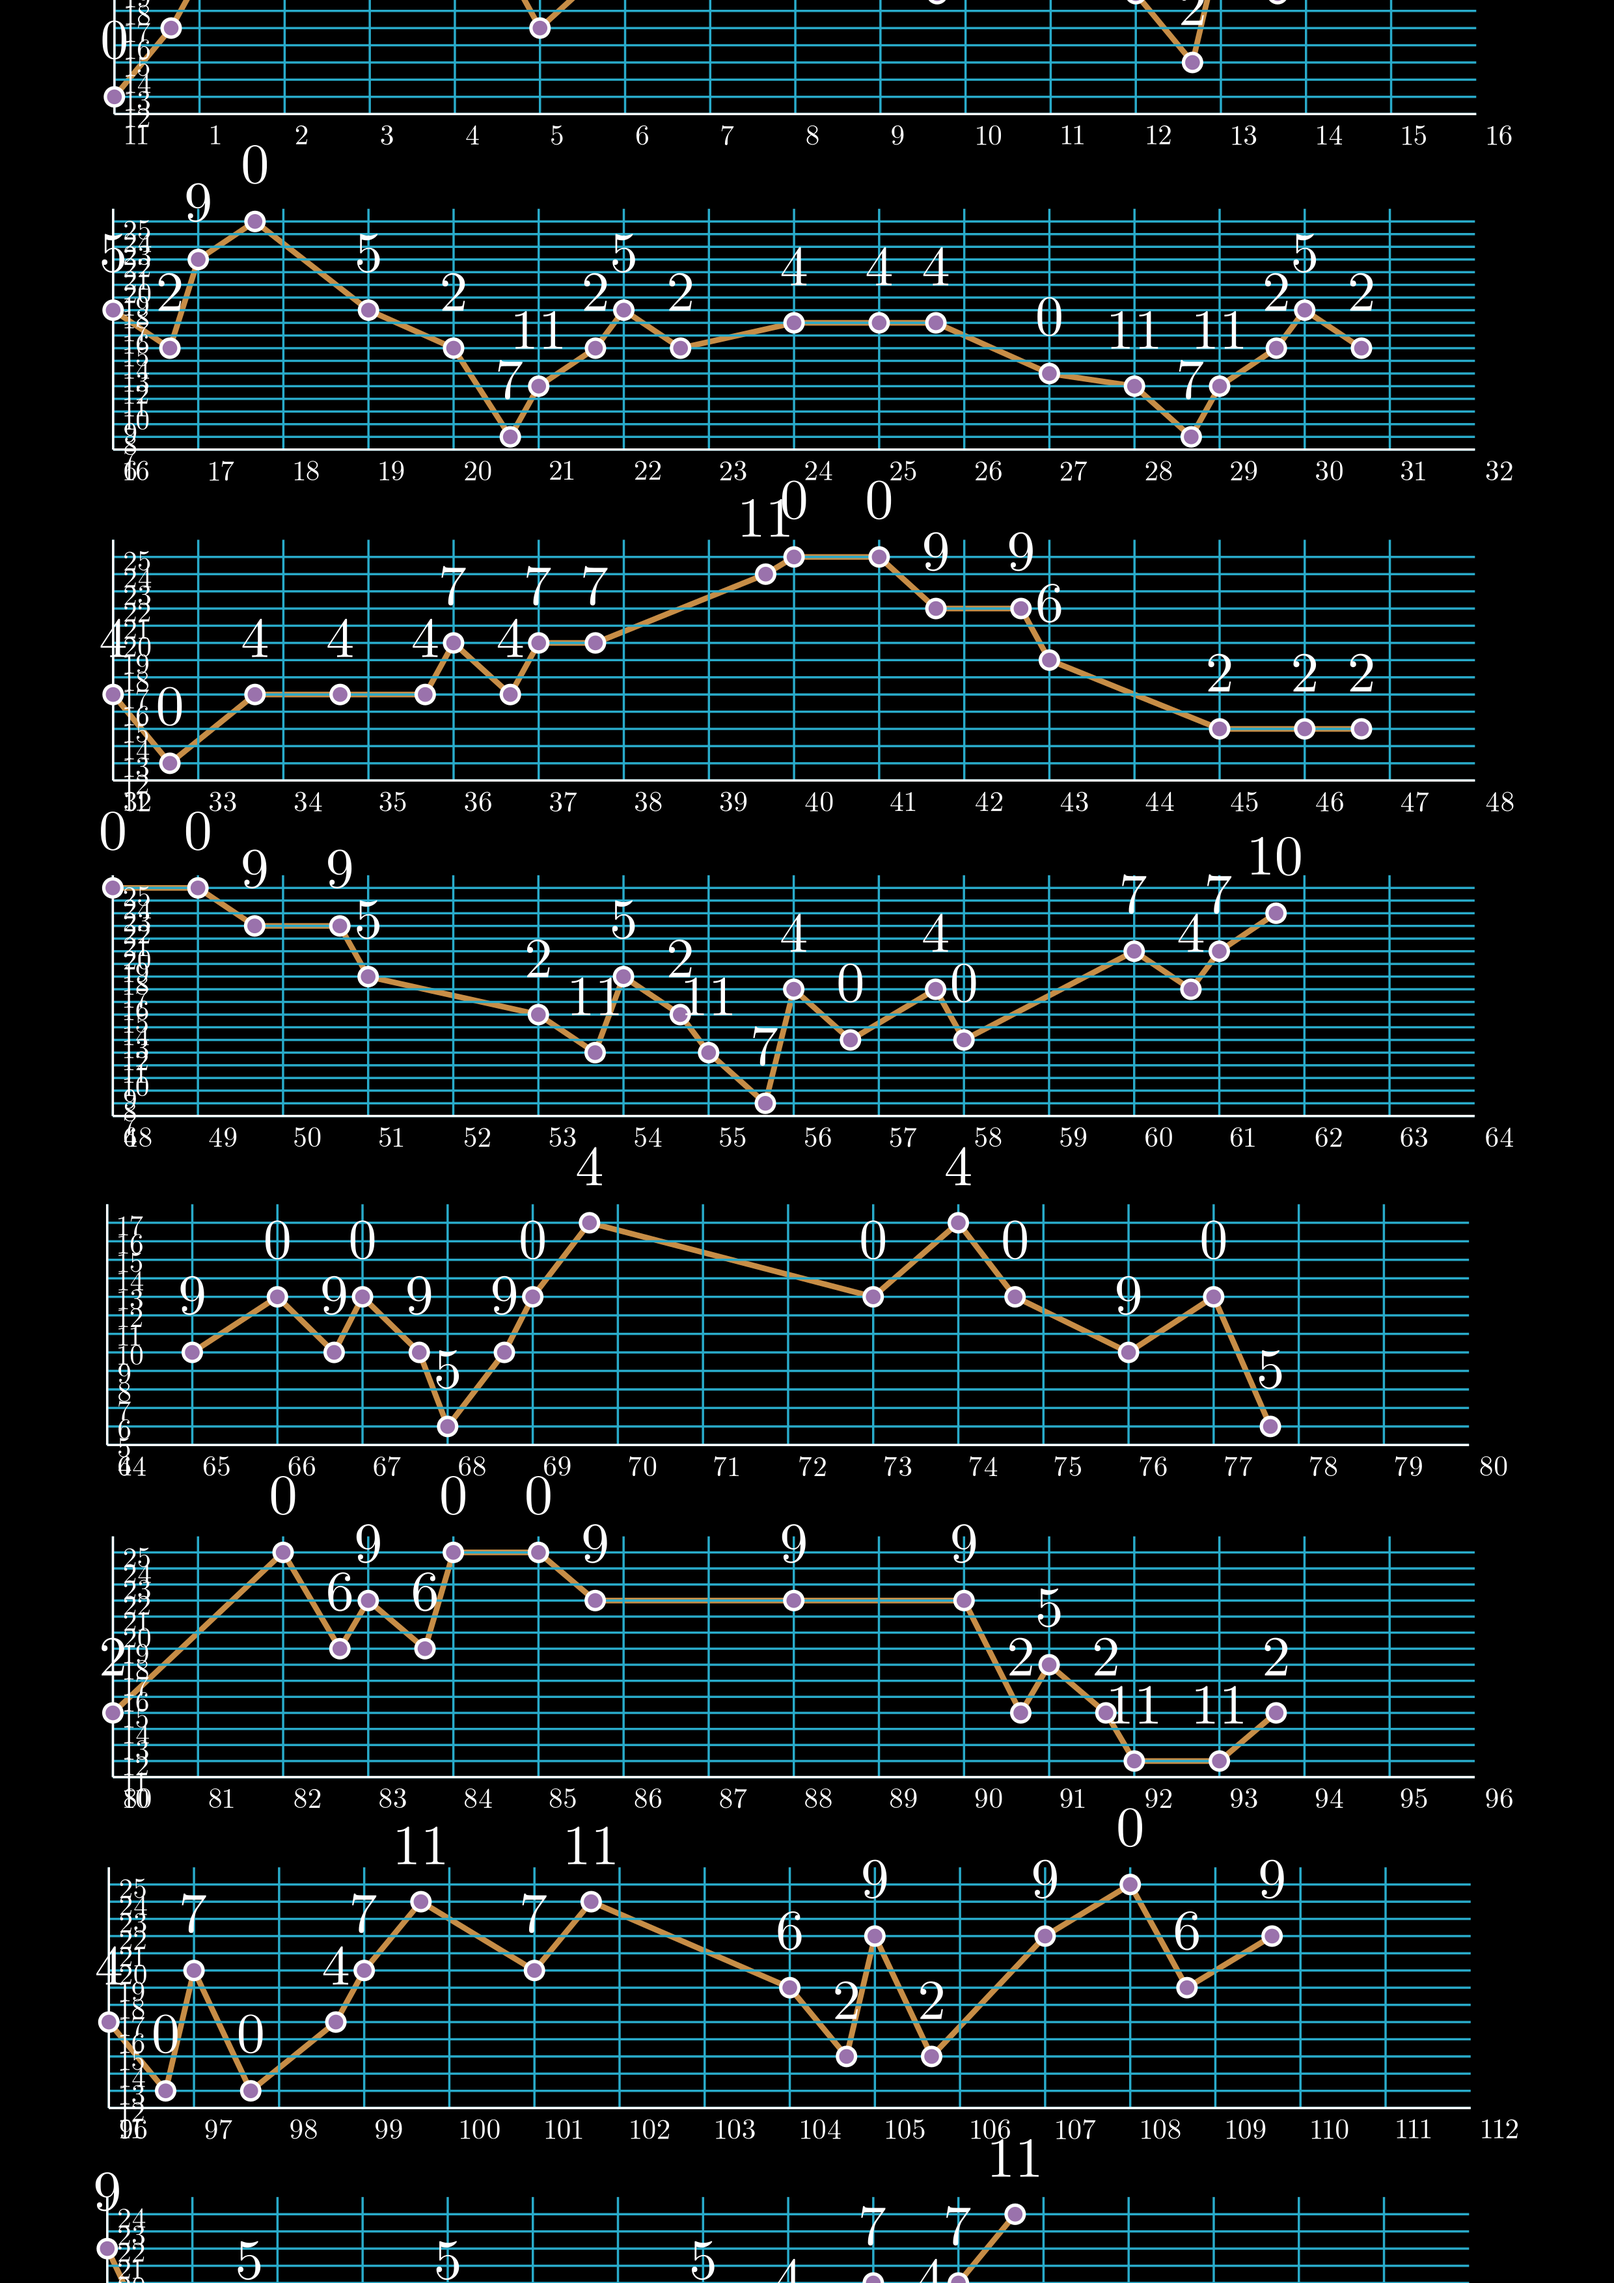
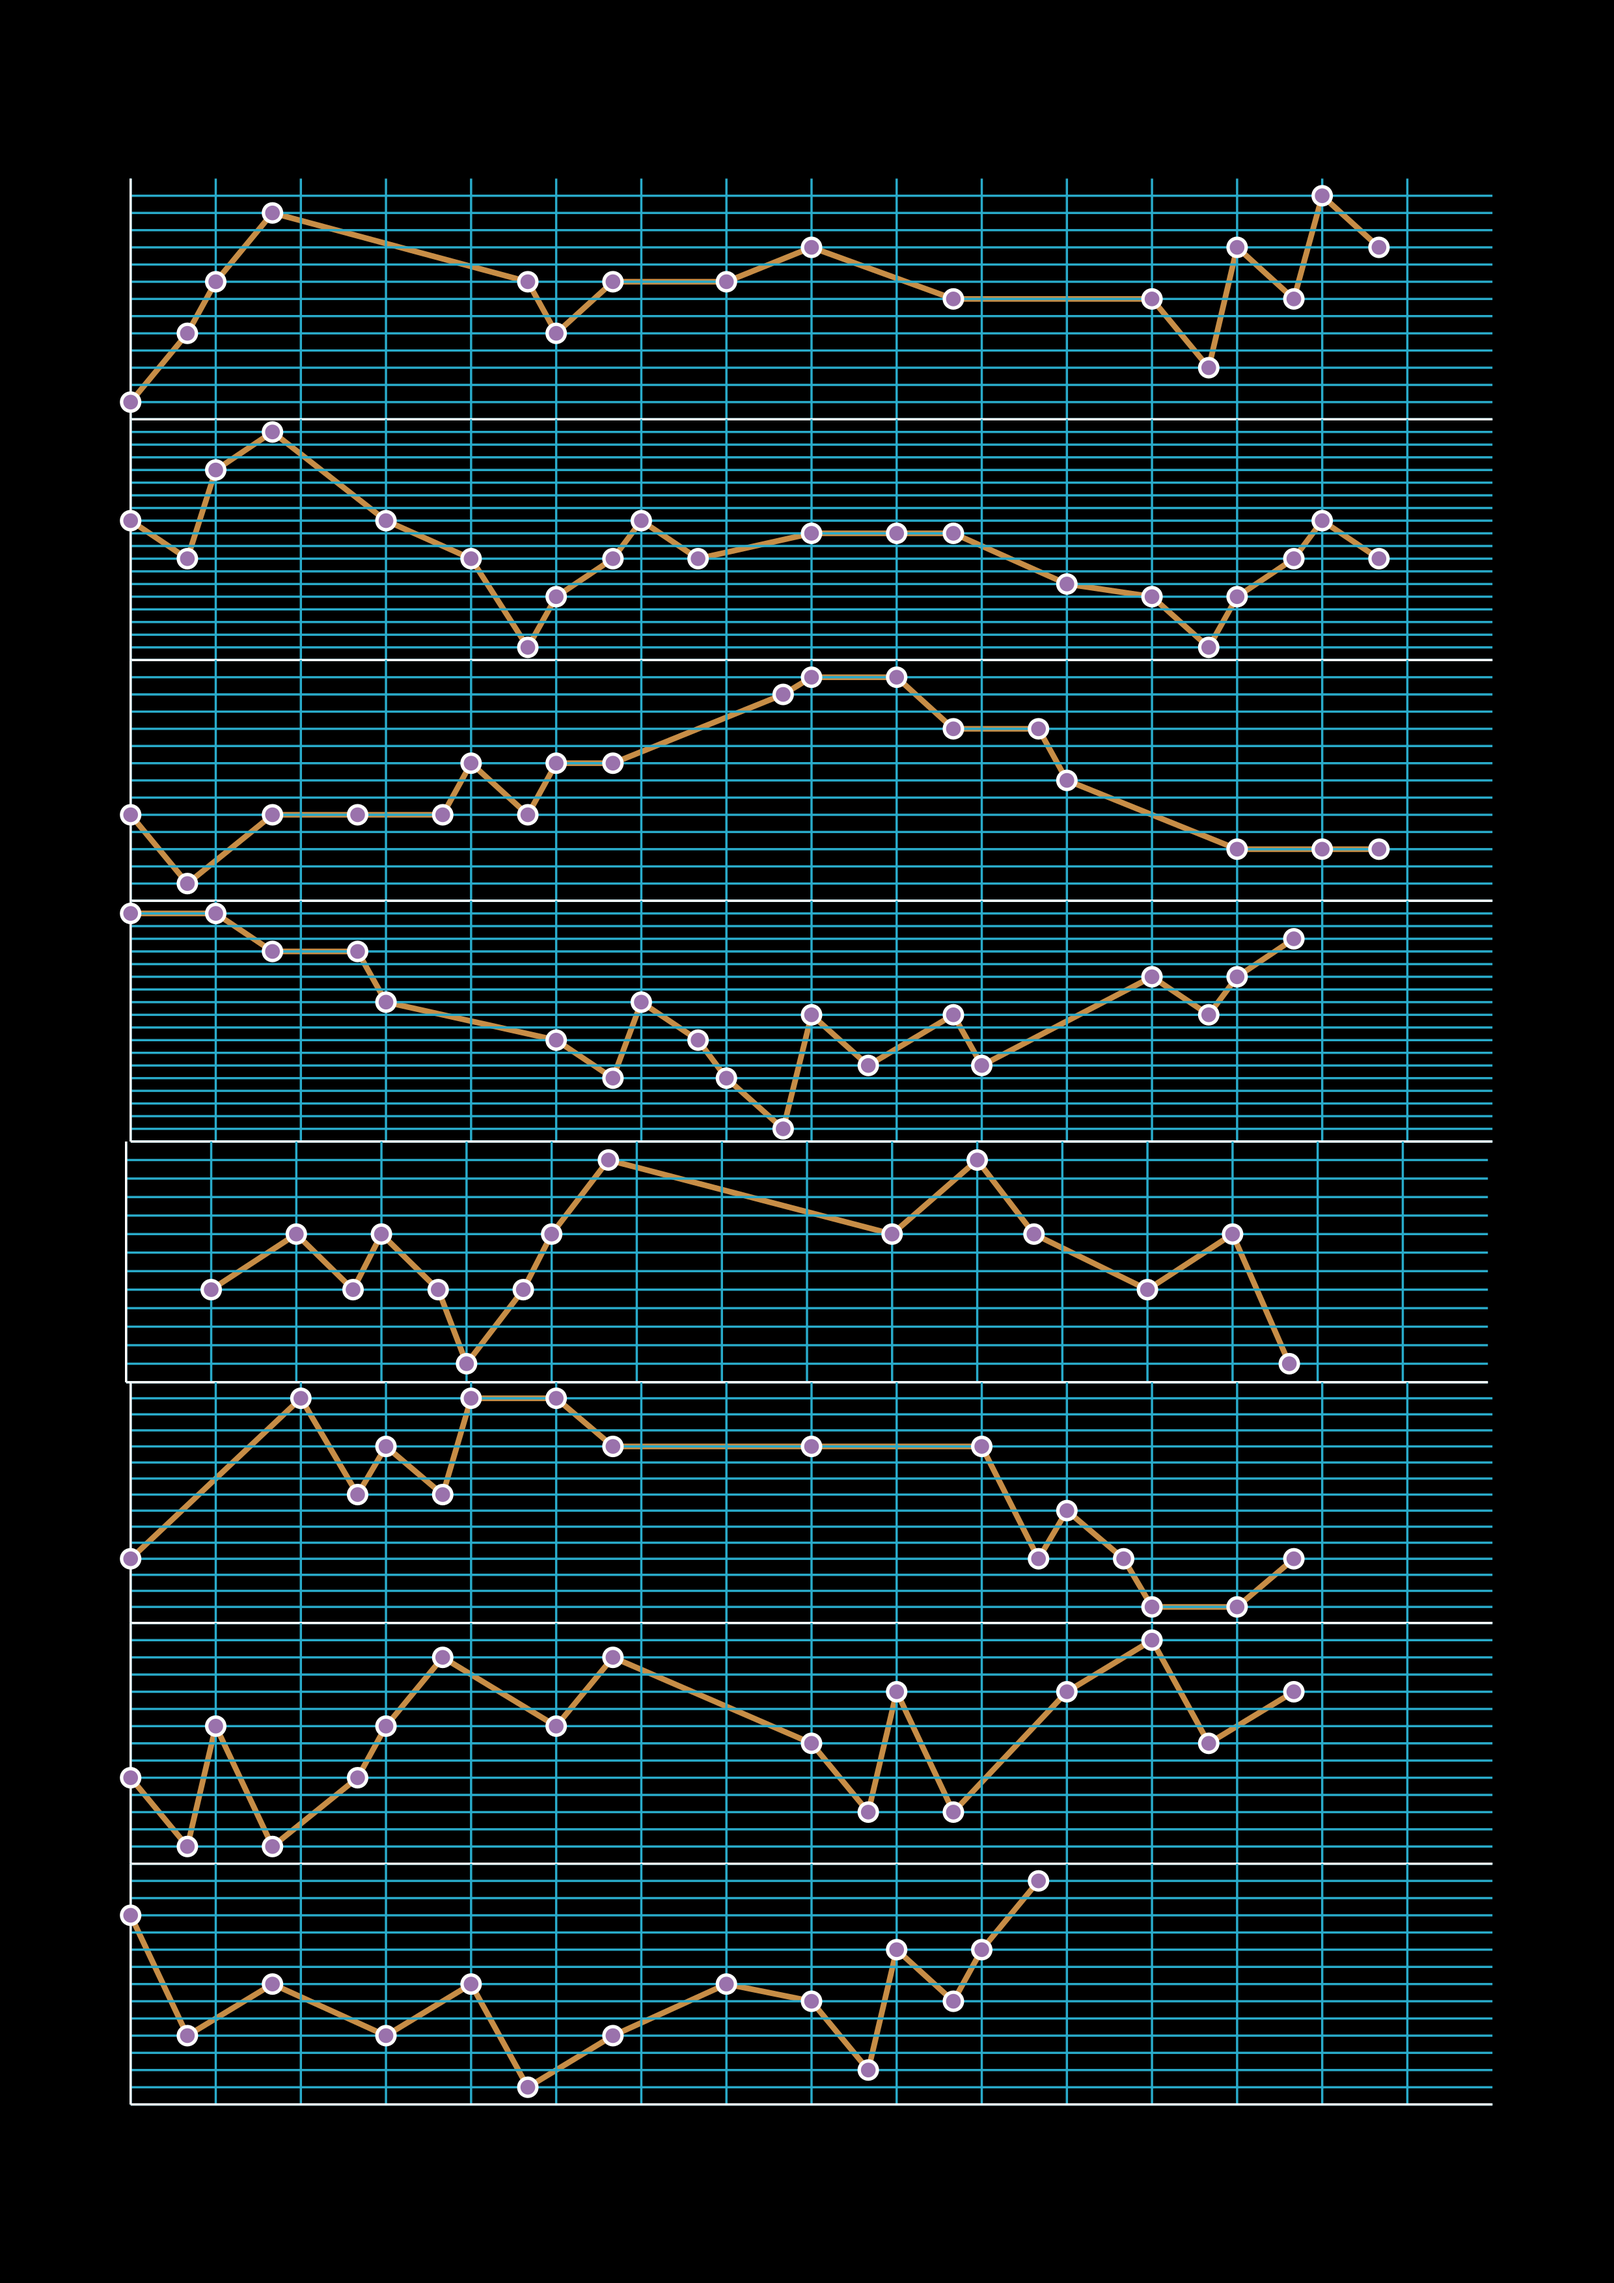
create melody sheet

Changed region(s): [[0.0621, 0.0, 0.9315, 1.0]]

diff --git a/line_graph.py b/line_graph.py
@@ -16,7 +16,8 @@ def create_line_graph(x_values, y_values, x_start, x_end, width, height ):
         x_length = width,
         #y_length = self.camera.frame_height - 2 * y_padding,
         y_length = height,
-        axis_config={"include_numbers": True},
+        #axis_config={"include_numbers": True},
+        axis_config={"include_numbers": False},
     )
     plane.center()
     line_graph = plane.get_line_graph(
@@ -26,11 +27,12 @@ def create_line_graph(x_values, y_values, x_start, x_end, width, height ):
         vertex_dot_style=dict(stroke_width=3,  fill_color=PURPLE),
         stroke_width = 5,
     )
-    labels = VGroup()
-    for i, y_value in enumerate(y_values):
-        labels.add(Tex(str(y_value % 12)).next_to(line_graph["vertex_dots"][i], UP))
+    #labels = VGroup()
+    #for i, y_value in enumerate(y_values):
+    #    labels.add(Tex(str(y_value % 12)).next_to(line_graph["vertex_dots"][i], UP))
 
-    return VGroup(plane, line_graph, labels)
+    return VGroup(plane, line_graph)
+    #return VGroup(plane, line_graph, labels)
 
 class LineGraphExample(Scene):
     def construct(self):
